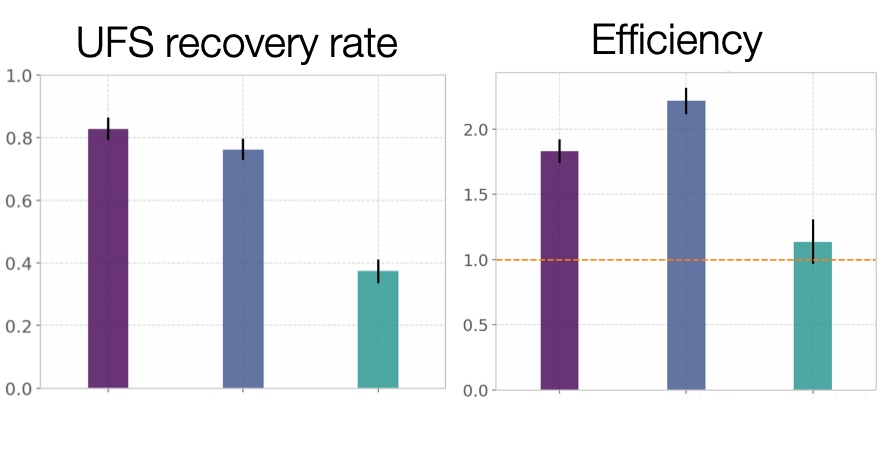
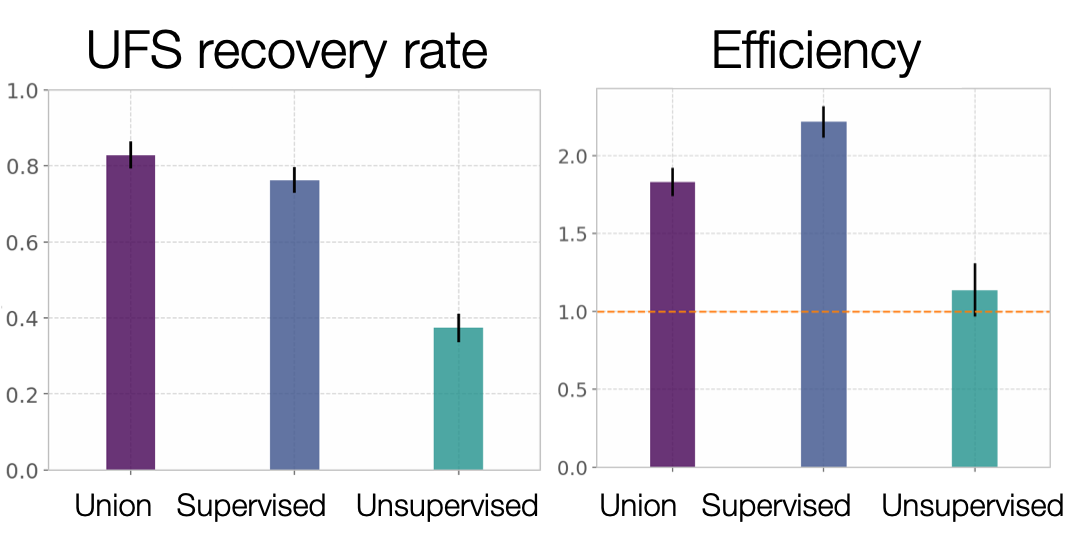
added xtick labels to Fig. 3 and updated the caption

diff --git a/papers/Hongsup_Shin/Hongsup_Shin.rst b/papers/Hongsup_Shin/Hongsup_Shin.rst
@@ -79,7 +79,7 @@ The input data was preprocessed based on the domain knowledge of the verificatio
    :scale: 50%
    :align: center
 
-   Unique failure signature (UFS) recovery rate (left) and efficiency (right) metrics across 15-day (1 month, the tests were not generated daily during this duration) performance for the three models (union, supervised and unsupervised). The dashed orange line in the efficiency plot shows average fail-discovery rate (the lower bound of the efficiency metric). Note that the union approach catches more UFS but lowers efficiency because more tests should be run. :label:`Fig.3`
+   The unique failure signature (UFS) recovery rate (left) and efficiency (right) metrics across 15-day (1 month, the tests were not generated daily during this duration) performance for the three models (union, supervised and unsupervised). The dashed orange line in the efficiency plot shows average fail-discovery rate (the lower bound of the efficiency metric). Note that the union approach catches more UFS but lowers efficiency because more tests should be run. :label:`Fig.3`
 
 Models
 ######
